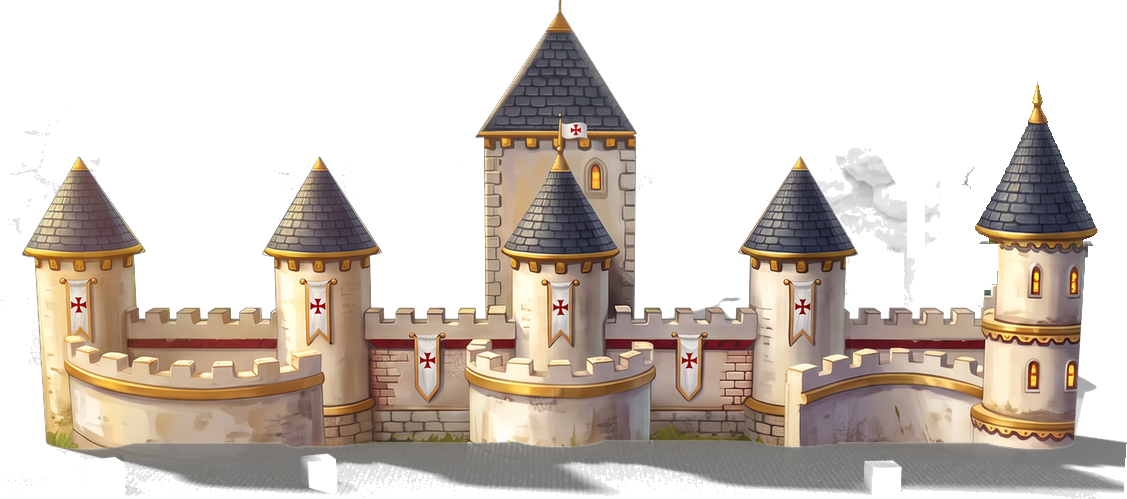
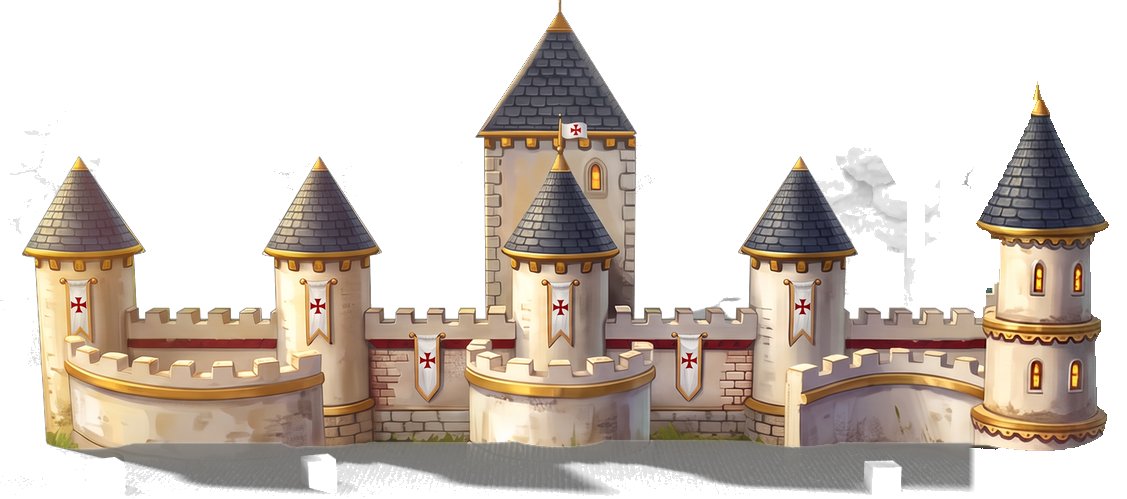
Temple town: the Templar backdrop back over the original ground, the Fort's end tower whole
The backdrop keeps the Templar repaint's distant castle, hills and sky above,
with the original ground below (blended behind the Fort's walls), so the
buildings still stand on the plaza (tools/art/town_bg_blend.py). The tower at
the right end of the Fort's wall, cut off in a straight line right of its
windows in the render, is now a whole round tower under its slate roof
(tools/art/fort_tower_paint.py widen).

Claude-Session: https://claude.ai/code/session_01DA5tkKXTVvUdTY5CEiRZRW

Changed region(s): [[0.8385, 0.1804, 1.0, 1.0]]

diff --git a/tools/art/fort_tower_paint.py b/tools/art/fort_tower_paint.py
@@ -3,7 +3,12 @@ it (the render left it unfinished: the Mage Guild's tower stands on that spot on
 beside it. The image model gives it a slate cone like the fort's other towers; only the roof rows of that tower are
 taken from the repaint (the rest of the sprite is untouched, and the click area hardly changes).
 python tools/art/fort_tower_paint.py paint   ->  imagegen/batch39/out/fort_tower.png
-python tools/art/fort_tower_paint.py ingest  ->  assets/town/haven_fort.png (the old sprite kept in tools/art/raw/town/)"""
+python tools/art/fort_tower_paint.py ingest  ->  assets/town/haven_fort.png (the old sprite kept in tools/art/raw/town/)
+Then the tower's body, cut off by a straight line just right of its windows (a third of the round tower missing),
+is completed as a whole cylinder under a roof as wide (the user saw it): the repaint decides the tower right of
+column WX; the sprite grows to the right if the tower needs it, and its rect in layout_haven.json with it.
+python tools/art/fort_tower_paint.py widen          ->  imagegen/batch39/out/fort_tower_whole.png
+python tools/art/fort_tower_paint.py widen_ingest   ->  assets/town/haven_fort.png (the roofed one kept in raw/)"""
 import os, sys, shutil
 import numpy as np
 from PIL import Image
@@ -17,9 +22,9 @@ OLD = "tools/art/raw/town/haven_fort_white_cone.png"
 BOX = (720, 60, 1127, 499)   # sprite px sent to the model: a slate-roofed tower (the reference), the wall, the tower
 X0, X1 = 975, 1110           # the tower's columns (sprite px) where the repaint is taken
 CUT, FADE = 238, 10          # rows taken from the repaint (the roof, down to its top gold ring), then cross-faded
-HAZE = (940, 1127, 305, 60)
+HAZE = (940, 1127, 305, 60)  # columns, rows above and alpha below which the render's faint shadow haze is cleared
 RING = (246, 260, 984, 1088)  # the old top ring's scalloped ends stuck out under the new ring: rows, kept columns
-SLIVER = (975, 1000, 244, 290, 150)  # a dark sliver of backdrop baked onto the tower's left side: cols, rows, max light  # columns, rows above and alpha below which the render's faint shadow haze is cleared
+SLIVER = (975, 1000, 244, 290, 150)  # a dark sliver of backdrop baked onto the tower's left side: cols, rows, max light
 PAD = 40
 PROMPT = ("This is part of a painted fantasy castle (a sprite on a flat magenta background). The round white tower at "
           "the right has an unfinished top: a plain white cone with a window in it. Replace that white cone with a "
@@ -109,5 +114,99 @@ def ingest():
     print("  town/haven_fort.png", old.size)
 
 
+ROOFED = "tools/art/raw/town/haven_fort_roofed.png"
+LAYOUT = "assets/town/layout_haven.json"
+WBOX = (860, 100, 1127, 499)  # sprite px sent for the widening (the wall's end and the tower)
+WSIZE, WAT = 520, (40, 60)    # a square canvas (the model keeps a square's proportions), the crop's place on it
+WX, WFADE = 968, 8            # columns from WX are the repaint's (after a cross-fade); left of it the sprite stays
+GROW = 48                     # room added at the sprite's right
+WPROMPT = ("This is part of a painted fantasy castle (a sprite on a flat magenta background): the end of a white "
+           "crenellated wall and ONE round white tower with a slate cone roof. The tower's body is cut off by a "
+           "straight vertical line on its right side, right next to its right-hand windows, which makes it look "
+           "flat and broken. Fix only that: keep it one single slim round tower (never two towers side by side, no "
+           "crease down its middle), make its body only about a quarter wider to the right, so there is curved white "
+           "plaster to the right of the right-hand windows, shaded darker as the cylinder turns away from the light, "
+           "and let the gold rings, the scalloped trims and the base ring curve round to that new edge. Widen the "
+           "slate roof by the same amount so its eave overhangs the tower evenly on both sides, its tip over the "
+           "middle. Everything left of the tower's middle (the wall, the left windows, the left half of the tower "
+           "and roof) stays exactly the same, same size and position. Keep the background flat pure magenta "
+           "(#FF00FF), no ground, no shadow, no text.")
+
+
+def widen():
+    import vertex_paint as vp
+    from google import genai
+    os.makedirs(f"{BATCH}/in", exist_ok=True)
+    os.makedirs(f"{BATCH}/out", exist_ok=True)
+    if not os.path.exists(ROOFED):
+        shutil.copy(DST, ROOFED)
+    a = np.asarray(Image.open(ROOFED).convert("RGBA")).copy()
+    a[..., 3] = np.where(a[..., 3] > 160, 255, 0)
+    canvas = Image.new("RGBA", (WSIZE, WSIZE), (255, 0, 255, 255))
+    canvas.alpha_composite(Image.fromarray(a).crop(WBOX), WAT)
+    canvas.convert("RGB").save(f"{BATCH}/in/fort_tower_whole.png")
+    client = genai.Client(vertexai=True, project=vp.PROJECT, location=vp.LOCATION)
+    img = vp.paint(client, "gemini-nano-banana-2.1", f"{BATCH}/in/fort_tower_whole.png", WPROMPT, "1:1", "1K")
+    if img:
+        img.save(f"{BATCH}/out/fort_tower_whole.png")
+        print("done", img.size)
+
+
+def widen_ingest():
+    import json
+    old = Image.open(ROOFED).convert("RGBA")
+    src = Image.open(f"{BATCH}/in/fort_tower_whole.png").convert("RGB")
+    out = key_out(Image.open(f"{BATCH}/out/fort_tower_whole.png").convert("RGB"))
+    # map back by the wall's left end (across), the roof's apex and the wall's bottom at the left (down): one scale
+    sa = np.asarray(src).astype(int)
+    smask = ~((sa[..., 0] > 200) & (sa[..., 1] < 80) & (sa[..., 2] > 200))
+    omask = np.asarray(out)[..., 3] > 128
+    def feats(m):
+        ys, xs = np.nonzero(m)
+        l = xs.min()
+        left = m[:, l:l + 40]
+        return l, ys.min(), np.nonzero(left.any(axis=1))[0].max()
+    sl, st, sb = feats(smask)
+    ol, ot, ob = feats(omask)
+    k = (ob - ot) / (sb - st)
+    print("  scale", round(k, 3))
+    out = out.transform(src.size, Image.AFFINE, (k, 0, ol - sl * k, 0, k, ot - st * k), Image.BICUBIC)
+    o = np.asarray(out).astype(np.float32)
+    W, H = old.width + GROW, old.height
+    rep = np.zeros((H, W, 4), np.float32)
+    x0, y0 = WBOX[0] - WAT[0], WBOX[1] - WAT[1]  # the canvas's origin in sprite px
+    cx0, cy0 = max(0, -x0), max(0, -y0)
+    ex, ey = min(W, x0 + WSIZE), min(H, y0 + WSIZE)
+    rep[y0 + cy0:ey, x0 + cx0:ex] = o[cy0:ey - y0, cx0:ex - x0]
+    rep[..., 3] = (rep[..., 3] > 128) * 255.0
+    base = np.zeros((H, W, 4), np.float32)
+    base[:, :old.width] = np.asarray(old).astype(np.float32)
+    # a last nudge of a few pixels, matched on the wall just left of the join (both paintings have it)
+    def err(dx, dy):
+        r = np.roll(rep, (dy, dx), axis=(0, 1))[300:480, WX - 60:WX]
+        b = base[300:480, WX - 60:WX]
+        m = (r[..., 3] > 0) & (b[..., 3] > 200)
+        return np.abs(r[..., :3] - b[..., :3])[m].mean() if m.sum() > 500 else 999
+    best = min(((err(dx, dy), dx, dy) for dx in range(-10, 11) for dy in range(-10, 11)))
+    print("  nudge", best[1], best[2], "wall difference", round(float(best[0]), 1), "from", round(float(err(0, 0)), 1))
+    rep = np.roll(rep, (best[2], best[1]), axis=(0, 1))
+    wt = np.zeros((1, W, 1), np.float32)
+    wt[0, WX:WX + WFADE, 0] = np.linspace(0, 1, WFADE)
+    wt[0, WX + WFADE:, 0] = 1
+    rows = np.zeros((H, 1, 1), np.float32)
+    rows[WBOX[1]:WBOX[3]] = 1  # (above the box the sprite stays: nothing of the tower is there)
+    wt = wt * rows
+    new = rep * wt + base * (1 - wt)
+    new[(wt[..., 0] >= 1) & (rep[..., 3] == 0)] = 0
+    img = Image.fromarray(new.clip(0, 255).astype(np.uint8), "RGBA")
+    right = img.getbbox()[2]
+    img = img.crop((0, 0, max(right, old.width), H))
+    img.save(DST)
+    lay = json.load(open(LAYOUT))
+    lay["fort"][2] = img.width
+    json.dump(lay, open(LAYOUT, "w"), indent=0)
+    print("  town/haven_fort.png", img.size, "rect", lay["fort"])
+
+
 if __name__ == "__main__":
-    {"paint": paint, "ingest": ingest}[sys.argv[1]]()
+    {"paint": paint, "ingest": ingest, "widen": widen, "widen_ingest": widen_ingest}[sys.argv[1]]()

diff --git a/tools/art/town_bg_blend.py b/tools/art/town_bg_blend.py
@@ -1,0 +1,35 @@
+"""Temple town backdrop (haven_bg): the Templar repaint (distant castle, hills, sky) above, the original painting's
+ground below. The repaint had moved the plaza about 110 px lower, and every building sprite stands on the original
+ground; the two meet in a blend across rows 400..450, which the Fort's walls hide. The original lamp post at the
+right is taken whole from the original (the blend cut it in half).
+python tools/art/town_bg_blend.py <templar_bg.png> <original_bg.png>   ->  assets/town/haven_bg.png
+  templar: git show 5c35890^:assets/town/haven_bg.png ; original: git show eac8cc0:assets/town/haven_bg.png"""
+import sys
+import numpy as np
+from PIL import Image
+
+DST = "assets/town/haven_bg.png"
+TOP, BOTTOM = 400, 450                # the blend: the repaint above TOP, the original below BOTTOM
+LAMP = (1515, 1570, 325, 475)          # the original's lamp post at the right: columns, rows
+
+
+def main(templar, original):
+    new = np.asarray(Image.open(templar).convert("RGB")).astype(np.float32)
+    old = np.asarray(Image.open(original).convert("RGB")).astype(np.float32)
+    h, w = new.shape[:2]
+    wt = np.repeat(np.clip((np.arange(h) - TOP) / (BOTTOM - TOP), 0, 1)[:, None], w, axis=1)
+    x0, x1, y0, y1 = LAMP
+    box = old[y0:y1, x0:x1]
+    r, g, b = box[..., 0], box[..., 1], box[..., 2]
+    lamp = np.zeros((h, w), np.uint8)
+    lamp[y0:y1, x0:x1] = ((g <= r) | ((r + g + b) / 3 > 215)) * 255  # not grass: the post, its lantern and globe
+    from PIL import ImageFilter
+    lm = np.asarray(Image.fromarray(lamp).filter(ImageFilter.GaussianBlur(0.7))).astype(np.float32) / 255
+    wt = np.maximum(wt, lm)
+    out = new * (1 - wt[..., None]) + old * wt[..., None]
+    Image.fromarray(out.clip(0, 255).astype(np.uint8)).save(DST)
+    print(DST, (w, h))
+
+
+if __name__ == "__main__":
+    main(sys.argv[1], sys.argv[2])

diff --git a/HANDOFF.md b/HANDOFF.md
@@ -16,6 +16,18 @@ the look and feel of HoMM3, and each round fixes what the judge found.
 
 ## 2. Status
 
+- **Session67 Temple backdrop back (2026-10-25), committed with this HANDOFF update:** the user: "this didnt solve anything it just took the
+  nice background away. the rights side tower still looks weird without a roof". The Templar backdrop's distant
+  castle, hills and sky are back: `tools/art/town_bg_blend.py` keeps the repaint above row 400 and the original
+  ground below row 450 (blended between, behind the Fort's walls), so the buildings still stand on the plaza; the
+  original lamp post at the right is taken whole. The user: "mix2_rich looks amazing and correct", but in the early
+  town the Fort's end tower was "cut off almost against the window ... part of the right side missing": its body
+  ended in a straight line right of its windows (the render's cut, the Mage Guild hides that side). It is now a
+  whole round tower, a quarter wider with its right side curving away, its rings round and its roof centred
+  (`fort_tower_paint.py widen` / `widen_ingest`: the repaint decides the tower right of column 968, matched to the
+  old wall by a small search; take 1 of two kept). Screenshots `shots/session67/tower/mix2_rich.png`,
+  `whole_demo.png`, `whole_demo_zoom.png`, `guild_cover.png` (with the Mage Guild built, the Fort tower's roof shows
+  behind it, as before).
 - **Session67 Temple fort tower (2026-10-25), committed with this HANDOFF update:** the user circled the tower at the right end of the
   Temple's Fort wall ("that tower does not look correct"). Cause: the Templar repaint had redrawn the backdrop
   (`town/haven_bg.png`) with its plaza about 110 px lower and a whole castle painted in the distance, so the Fort's
@@ -1542,7 +1554,8 @@ Suggested order remains **artifacts → AI → hot-seat multiplayer**, with the 
 - Town backdrops (session67): an image-model repaint of `town/<faction>_bg.png` can move the ground (the Temple's
   plaza went 110 px lower and a castle appeared), and every building sprite is placed for the old ground. After any
   backdrop change, look at the town screen early (`--setup=demo`) and fully built (`--setup=rich`), not the
-  backdrop alone.
+  backdrop alone. Keep what the user liked in a repaint (the Temple's distant castle) and fix only the ground
+  (`tools/art/town_bg_blend.py`): restoring the whole original took away a backdrop the user liked.
 - Browser version (session67): only the cursor over the page is known (edge scrolling must not use screen
   positions; past the page's edge it goes on toward the edge the cursor left by, as the user asked); a room code may start with a digit; ENet does not work in a browser (room codes only). A new
   workers.dev subdomain took a few minutes before its certificate worked. The browser drive used for checks is

diff --git a/ASSETS.md b/ASSETS.md
@@ -159,7 +159,8 @@ Measure with `python tools/art/sprite_sizes.py <id>_dead.png` to preserve unrela
   (imagegen/batch21) repaints the roof and platform whole, aligned to the old sprite, and moves it right.
   The tower at the right end of the Fort's wall (`haven_fort.png`) had an unfinished white cone (the Mage Guild stands
   on that spot once built): `tools/art/fort_tower_paint.py` (imagegen/batch39) gives it a slate roof like the Fort's
-  other towers, pasted over the roof rows only, and clears the render's faint shadow haze beside it.
+  other towers, pasted over the roof rows only, and clears the render's faint shadow haze beside it; its `widen`
+  stage completes the tower's body (cut straight right of its windows in the render) as a whole round tower.
 
 ## Icons & UI
 - `icons/res_<resource>.png` — 64x64 resource icons.
@@ -219,8 +220,9 @@ Measure with `python tools/art/sprite_sizes.py <id>_dead.png` to preserve unrela
 - Voice (optional): `voice/<line_id>.mp3` narrator lines: intro, victory, defeat, new_week.
 
 ## Faction colours from the setting (session67)
-The Temple (`haven`) town screen (`town/haven_*.png`, the layout unchanged; its backdrop was repainted too but is the
-original again since session67: the repaint had moved the plaza down and painted a castle in), its building cards
+The Temple (`haven`) town screen (`town/haven_*.png`, the layout unchanged; its backdrop is the repaint's distant
+castle, hills and sky over the original ground, `tools/art/town_bg_blend.py`, since the repaint had moved the plaza
+110 px lower and the buildings stand on the original one), its building cards
 (`icons/building_haven_*.png`), its map towns (`map/town_haven*.png`) and the main menu painting (`ui/main_menu_bg.png`)
 were repainted in the Templars' colours by `tools/art/faction_repaint.py haven` (`prep`, `paint`, `ingest`;
 imagegen/batch37; first named `temple_repaint.py`):
